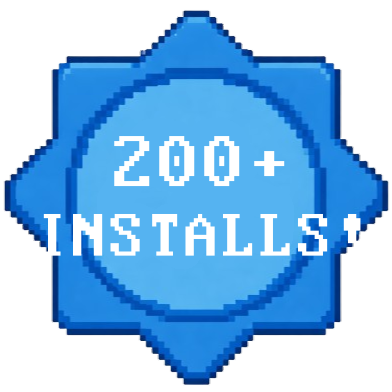
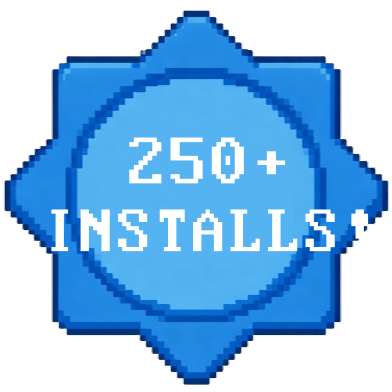
uwaterloo webring

Changed region(s): [[0.1224, 0.5204, 0.949, 0.6735], [0.2755, 0.3367, 0.7347, 0.4898]]

diff --git a/assets/uwaterloo.network.embed.js b/assets/uwaterloo.network.embed.js
@@ -1,0 +1,194 @@
+
+(function() {
+    const scriptTag = document.currentScript || document.querySelector('script[data-webring]');
+    if (!scriptTag) return;
+    
+    const userId = scriptTag.getAttribute('data-user') || '';
+    const embedColor = scriptTag.getAttribute('data-color') || 'black';
+    const embedArrow = scriptTag.getAttribute('data-arrow') || 'arrow';
+    const embedCustomColor = scriptTag.getAttribute('data-custom-color') || '';
+    const embedAlign = scriptTag.getAttribute('data-align') || 'left';
+    const embedBackground = scriptTag.getAttribute('data-background') || '';
+    const embedBorder = scriptTag.getAttribute('data-border') || '';
+    const embedNoBg = scriptTag.hasAttribute('data-no-background');
+    
+    const baseUrl = 'https://www.uwaterloo.network';
+    
+    // Fetch connections for this user (or all members if no user specified)
+    const apiUrl = userId ? baseUrl + '/api/webring?user=' + userId : baseUrl + '/api/webring';
+    
+    fetch(apiUrl)
+        .then(res => res.json())
+        .then(data => {
+            // Create a wrapper for alignment
+            const wrapper = document.createElement('div');
+            wrapper.className = 'uwaterloo-webring-wrapper';
+            const alignStyles = {
+                'left': 'justify-content: flex-start;',
+                'center': 'justify-content: center;',
+                'right': 'justify-content: flex-end;'
+            };
+            wrapper.style.cssText = `
+                display: flex;
+                width: 100%;
+                ${alignStyles[embedAlign] || alignStyles['left']}
+            `;
+            
+            const container = document.createElement('div');
+            container.id = 'uwaterloo-webring';
+            container.className = 'uwaterloo-webring';
+            
+            // Build container styles based on whether background/border is set
+            const hasBackground = embedBackground || embedBorder;
+            
+            let containerStyles = `
+                display: inline-flex;
+                align-items: center;
+                gap: 12px;
+                font-family: -apple-system, BlinkMacSystemFont, 'Segoe UI', sans-serif;
+                transition: all 0.3s ease;
+            `;
+            
+            if (hasBackground) {
+                containerStyles += `
+                    padding: 12px;
+                    border-radius: 12px;
+                    background: ${embedBackground || 'transparent'};
+                    border: ${embedBorder ? '2px solid ' + embedBorder : 'none'};
+                `;
+            }
+            
+            container.style.cssText = containerStyles;
+            
+            const arrowColor = getArrowColor(embedColor, embedCustomColor);
+            
+            // Left arrow - navigate to previous connection
+            const leftArrow = document.createElement('button');
+            leftArrow.innerHTML = '↜';
+            leftArrow.style.cssText = `
+                border: none;
+                background: transparent;
+                cursor: pointer;
+                display: flex;
+                align-items: center;
+                justify-content: center;
+                transition: transform 0.2s, opacity 0.2s;
+                font-size: 24px;
+                padding: 0;
+                line-height: 1;
+                color: ${arrowColor};
+            `;
+            leftArrow.onmouseover = () => { leftArrow.style.transform = 'scale(1.2)'; leftArrow.style.opacity = '0.8'; };
+            leftArrow.onmouseout = () => { leftArrow.style.transform = 'scale(1)'; leftArrow.style.opacity = '1'; };
+            
+            // Center icon - links to the webring homepage
+            const centerLink = document.createElement('a');
+            centerLink.href = userId ? baseUrl + '?ref=' + encodeURIComponent(userId) : baseUrl;
+            centerLink.target = '_blank';
+            centerLink.rel = 'noopener noreferrer';
+            centerLink.title = 'Visit uwaterloo.network';
+            centerLink.style.cssText = `
+                display: flex;
+                transition: transform 0.2s;
+            `;
+            centerLink.onmouseover = () => centerLink.style.transform = 'scale(1.1)';
+            centerLink.onmouseout = () => centerLink.style.transform = 'scale(1)';
+            
+            if (embedColor === 'custom' && embedCustomColor) {
+                const iconWrapper = document.createElement('div');
+                iconWrapper.style.cssText = `
+                    width: 56px;
+                    height: 56px;
+                    background-color: ${embedCustomColor};
+                    mask: url(${baseUrl}/icon.svg) center/contain no-repeat;
+                    -webkit-mask: url(${baseUrl}/icon.svg) center/contain no-repeat;
+                `;
+                centerLink.appendChild(iconWrapper);
+            } else {
+                const colorMap = {
+                    'black': '/icon.svg',
+                    'red': '/iconred.svg',
+                    'yellow': '/iconyellow.svg',
+                    'white': '/iconwhite.svg'
+                };
+                const iconSrc = baseUrl + (colorMap[embedColor] || colorMap['black']);
+                
+                const icon = document.createElement('img');
+                icon.src = iconSrc;
+                icon.alt = 'UWaterloo Webring';
+                icon.style.cssText = `
+                    width: 56px;
+                    height: 56px;
+                    display: block;
+                `;
+                centerLink.appendChild(icon);
+            }
+            
+            // Right arrow - navigate to next connection
+            const rightArrow = document.createElement('button');
+            rightArrow.innerHTML = '↝';
+            rightArrow.style.cssText = `
+                border: none;
+                background: transparent;
+                cursor: pointer;
+                display: flex;
+                align-items: center;
+                justify-content: center;
+                transition: transform 0.2s, opacity 0.2s;
+                font-size: 24px;
+                padding: 0;
+                line-height: 1;
+                color: ${arrowColor};
+            `;
+            rightArrow.onmouseover = () => { rightArrow.style.transform = 'scale(1.2)'; rightArrow.style.opacity = '0.8'; };
+            rightArrow.onmouseout = () => { rightArrow.style.transform = 'scale(1)'; rightArrow.style.opacity = '1'; };
+            
+            // If there are members to navigate through
+            if (data.members && data.members.length > 0) {
+                let currentIndex = Math.floor(Math.random() * data.members.length);
+                
+                leftArrow.onclick = () => {
+                    currentIndex = (currentIndex - 1 + data.members.length) % data.members.length;
+                    navigateToMember(data.members[currentIndex]);
+                };
+                
+                rightArrow.onclick = () => {
+                    currentIndex = (currentIndex + 1) % data.members.length;
+                    navigateToMember(data.members[currentIndex]);
+                };
+                
+                function navigateToMember(member) {
+                    window.open(member.website, '_blank');
+                }
+            } else {
+                // No connections - hide arrows or make them link to webring
+                leftArrow.style.opacity = '0.3';
+                leftArrow.style.cursor = 'default';
+                rightArrow.style.opacity = '0.3';
+                rightArrow.style.cursor = 'default';
+            }
+            
+            function getArrowColor(color, customColor) {
+                if (color === 'custom' && customColor) {
+                    return customColor;
+                }
+                const colorMap = {
+                    'black': '#000000',
+                    'red': '#ba0e34',
+                    'yellow': '#ffd54f',
+                    'white': '#ffffff'
+                };
+                return colorMap[color] || '#000000';
+            }
+            
+            container.appendChild(leftArrow);
+            container.appendChild(centerLink);
+            container.appendChild(rightArrow);
+            
+            wrapper.appendChild(container);
+            scriptTag.parentNode.insertBefore(wrapper, scriptTag.nextSibling);
+        })
+        .catch(err => {
+            console.error('Webring error:', err);
+        });
+})();

diff --git a/index.html b/index.html
@@ -166,13 +166,15 @@
 
     <footer>
       <div id="footer">
-        <div id="waterlooWR">
-          <a href="https://cs.uwatering.com/#https://vidsterbroyo.com?nav=prev">↜</a>
-          <a href="https://cs.uwatering.com/#https://vidsterbroyo.com/" target="_blank">
-            <img src="https://cs.uwatering.com/icon.black.svg" alt="CS Webring for UWaterloo - Vidu Widyalankara's university" />
-          </a>
-          <a href="https://cs.uwatering.com/#https://vidsterbroyo.com/?nav=next">↝</a>
-        </div>
+        <script 
+          src="assets/uwaterloo.network.embed.js" 
+          data-webring
+          data-user="vidu-widyalankara"
+          data-color="custom"
+          data-custom-color="#df1b9e"
+          data-align="center"
+        ></script>
+        
         <p class="text-center">
           inspired
           by <a id="MKCredit" href="https://michaelkolesidis.com/" target="_blank">michaelkolesidis.com</a> and <a

diff --git a/style.css b/style.css
@@ -754,6 +754,21 @@ a,
 }
 
 
+#uwaterloo-webring img {
+    width: 27px !important;
+    height: 27px !important;
+}
+
+#uwaterloo-webring div[style*="mask"] {
+    width: 27px !important;
+    height: 27px !important;
+}
+
+#uwaterloo-webring button {
+    font-size: 20px !important;
+    font-weight: bold !important;
+}
+
 #waterlooWR {
     display: flex;
     align-items: center;

diff --git a/script.js b/script.js
@@ -1,5 +1,4 @@
-console.log("%cstop snooping", "color: lime; font-size: 20px; background: black; padding: 4px; border: 1px solid lime;");
-/* WHY ARE YOU HERE - DID YOU NOT HEED MY REQUEST ??? */
+console.log("%cboo!", "color: lime; font-size: 20px; background: black; padding: 4px; border: 1px solid lime;");
 
 // DOM handles
 const marquee1 = document.getElementById("marquee")